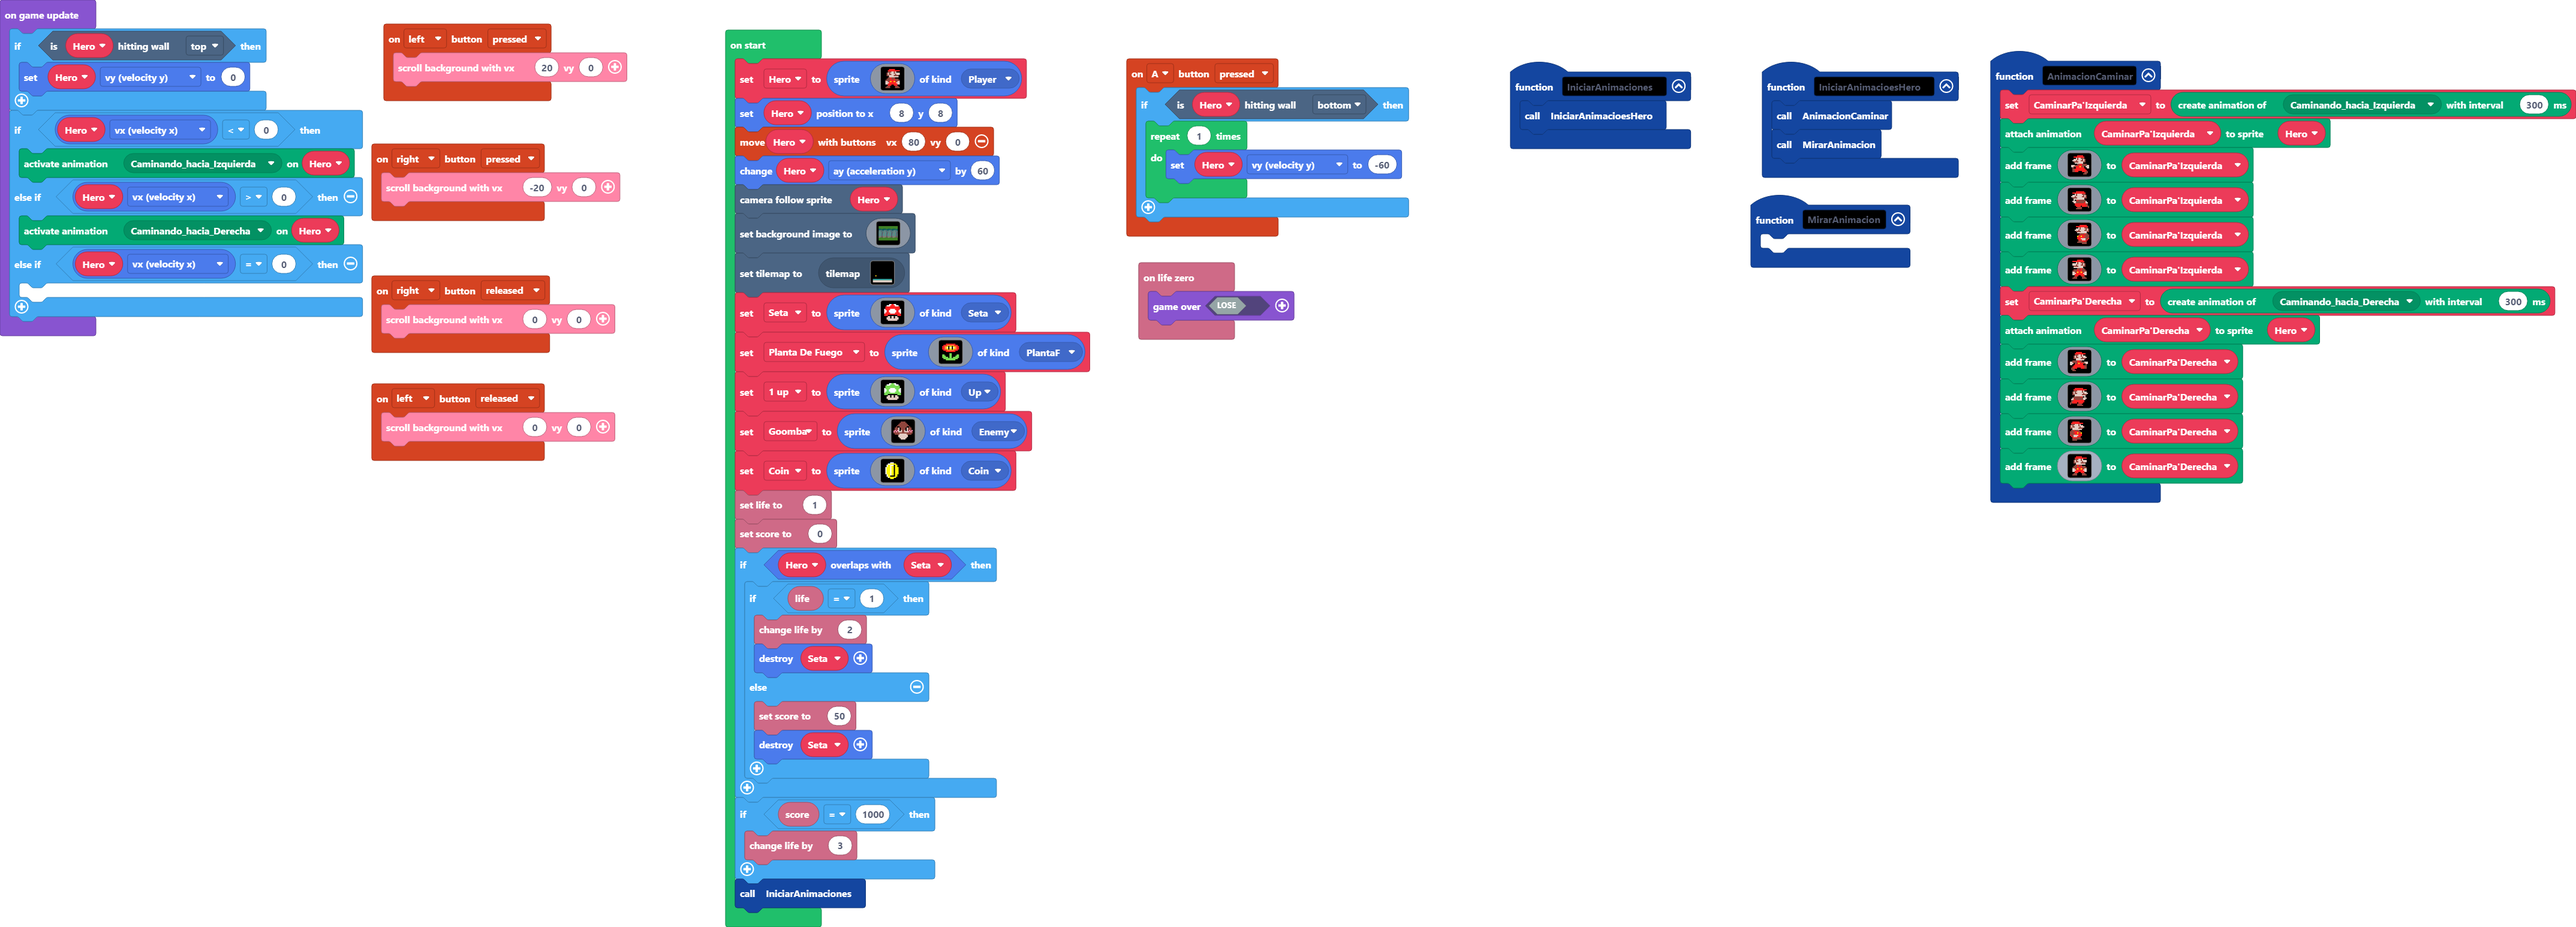
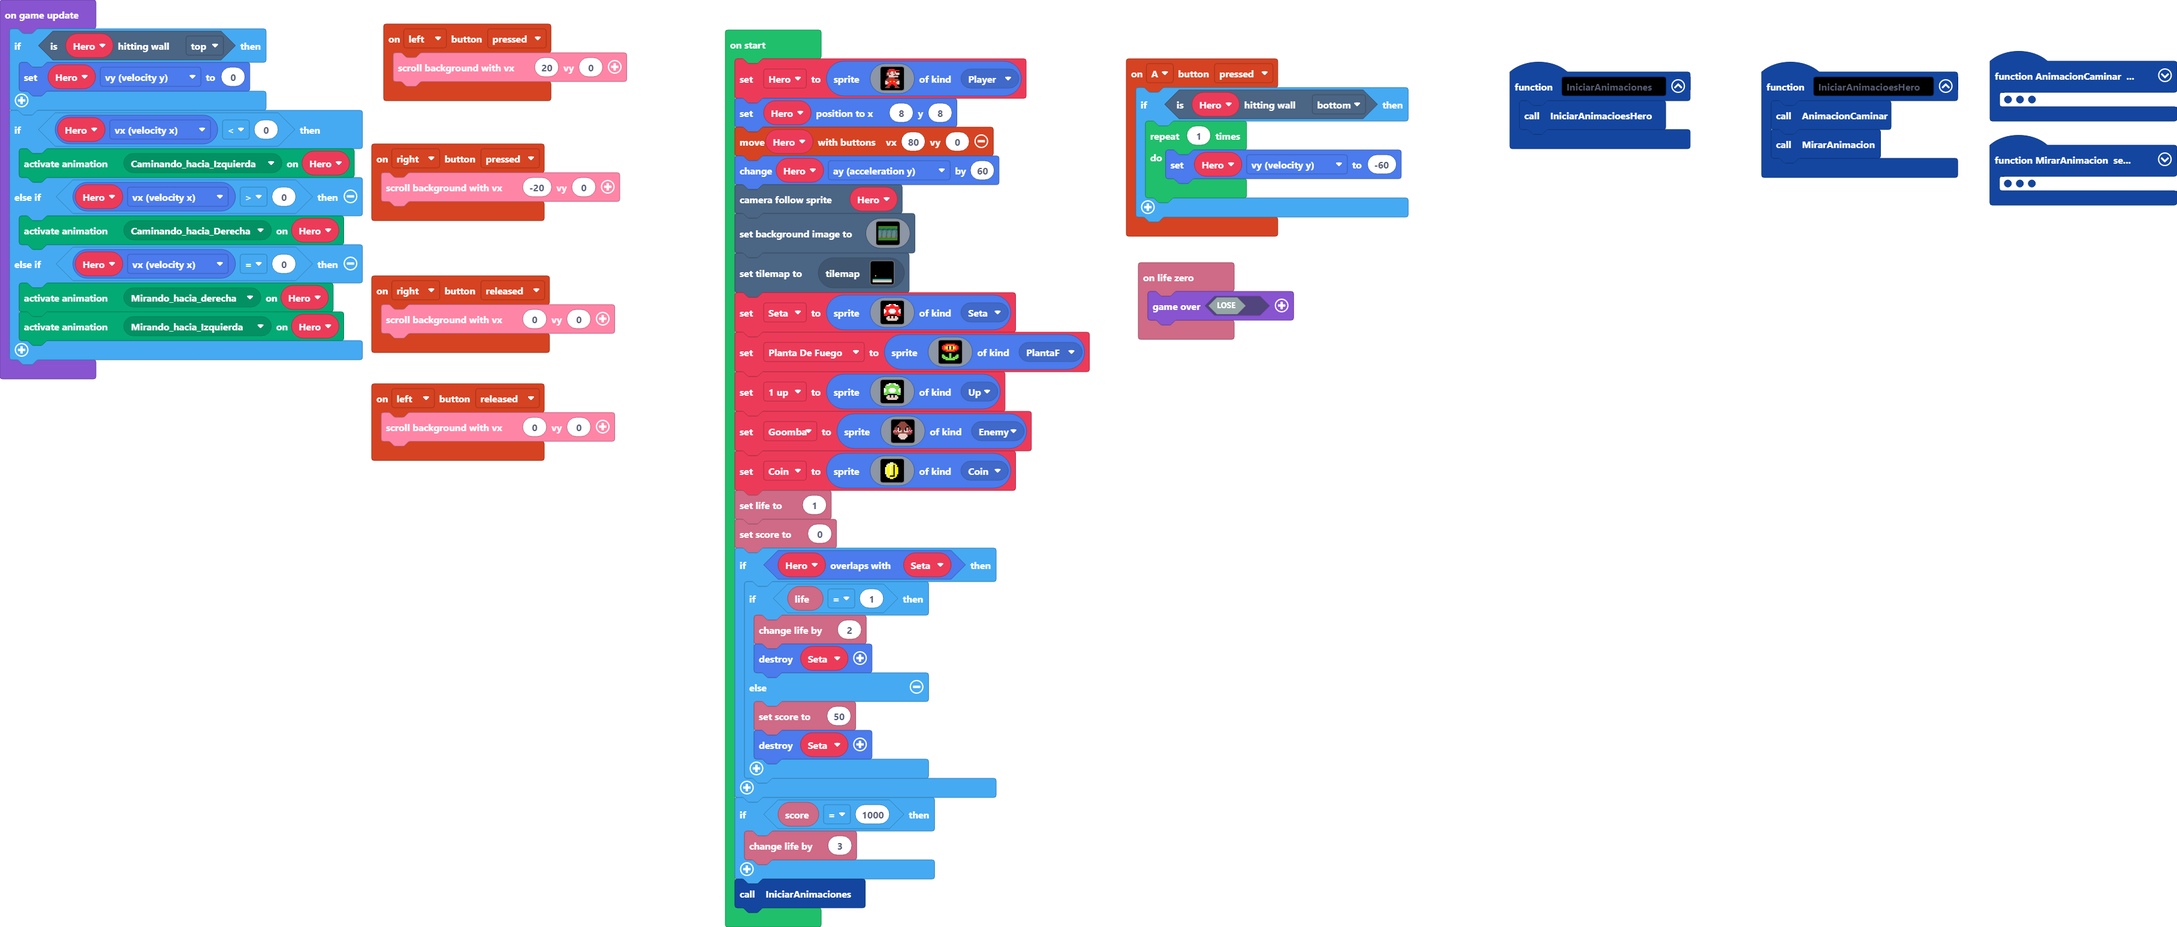
Update main.blocks, main.ts

Changed region(s): [[0.0, 0.0, 1.0, 1.0]]

diff --git a/main.ts b/main.ts
@@ -3,7 +3,9 @@ enum ActionKind {
     Idle,
     Jumping,
     Caminando_hacia_Derecha,
-    Caminando_hacia_Izquierda
+    Caminando_hacia_Izquierda,
+    Mirando_hacia_derecha,
+    Mirando_hacia_Izquierda
 }
 namespace SpriteKind {
     export const Coin = SpriteKind.create()
@@ -15,7 +17,46 @@ function IniciarAnimaciones () {
     IniciarAnimacioesHero()
 }
 function MirarAnimacion () {
-	
+    Mirando_a_la_Derecha = animation.createAnimation(ActionKind.Mirando_hacia_derecha, 300)
+    animation.attachAnimation(Hero, Mirando_a_la_Derecha)
+    Mirando_a_la_Derecha.addAnimationFrame(img`
+        . . . . . 2 2 2 2 2 . . . . . . 
+        . . . . 2 2 2 2 2 2 2 2 2 2 . . 
+        . . . . e e e d d e d . . . . . 
+        . . . e d e d d d e d d d d . . 
+        . . . e d e e d d d e d d d . . 
+        . . . e e d d d d e e e e . . . 
+        . . . . . d d d d d d d d . . . 
+        . . . . e e 2 e e e . . . . . . 
+        . . . e e e 2 e e 2 e e e . . . 
+        . . e e e e 2 2 2 2 e e e e . . 
+        . . d d e 2 5 2 2 5 2 e d d . . 
+        . . d d d 2 2 2 2 2 2 d d d . . 
+        . . d d 2 2 2 2 2 2 2 2 d d . . 
+        . . . . 2 2 2 . . 2 2 2 . . . . 
+        . . . e e e . . . . e e e . . . 
+        . . e e e e . . . . e e e e . . 
+        `)
+    Mirando_hacia_Izquierda = animation.createAnimation(ActionKind.Mirando_hacia_Izquierda, 300)
+    animation.attachAnimation(Hero, Mirando_hacia_Izquierda)
+    Mirando_hacia_Izquierda.addAnimationFrame(img`
+        . . . . . . 2 2 2 2 2 . . . . . 
+        . . 2 2 2 2 2 2 2 2 2 2 . . . . 
+        . . . . . d e d d e e e . . . . 
+        . . d d d d e d d d e d e . . . 
+        . . d d d e d d d e e d e . . . 
+        . . . e e e e d d d d e e . . . 
+        . . . d d d d d d d d . . . . . 
+        . . . . . . e e e 2 e e . . . . 
+        . . . e e e 2 e e 2 e e e . . . 
+        . . e e e e 2 2 2 2 e e e e . . 
+        . . d d e 2 5 2 2 5 2 e d d . . 
+        . . d d d 2 2 2 2 2 2 d d d . . 
+        . . d d 2 2 2 2 2 2 2 2 d d . . 
+        . . . . 2 2 2 . . 2 2 2 . . . . 
+        . . . e e e . . . . e e e . . . 
+        . . e e e e . . . . e e e e . . 
+        `)
 }
 controller.A.onEvent(ControllerButtonEvent.Pressed, function () {
     if (Hero.isHittingTile(CollisionDirection.Bottom)) {
@@ -195,6 +236,8 @@ info.onLifeZero(function () {
 })
 let CaminarPaDerecha: animation.Animation = null
 let CaminarPaIzquierda: animation.Animation = null
+let Mirando_hacia_Izquierda: animation.Animation = null
+let Mirando_a_la_Derecha: animation.Animation = null
 let Hero: Sprite = null
 Hero = sprites.create(img`
     . . . . . 2 2 2 2 2 . . . . . . 
@@ -455,6 +498,7 @@ game.onUpdate(function () {
     } else if (Hero.vx > 0) {
         animation.setAction(Hero, ActionKind.Caminando_hacia_Derecha)
     } else if (Hero.vx == 0) {
-    	
+        animation.setAction(Hero, ActionKind.Mirando_hacia_derecha)
+        animation.setAction(Hero, ActionKind.Mirando_hacia_Izquierda)
     }
 })
